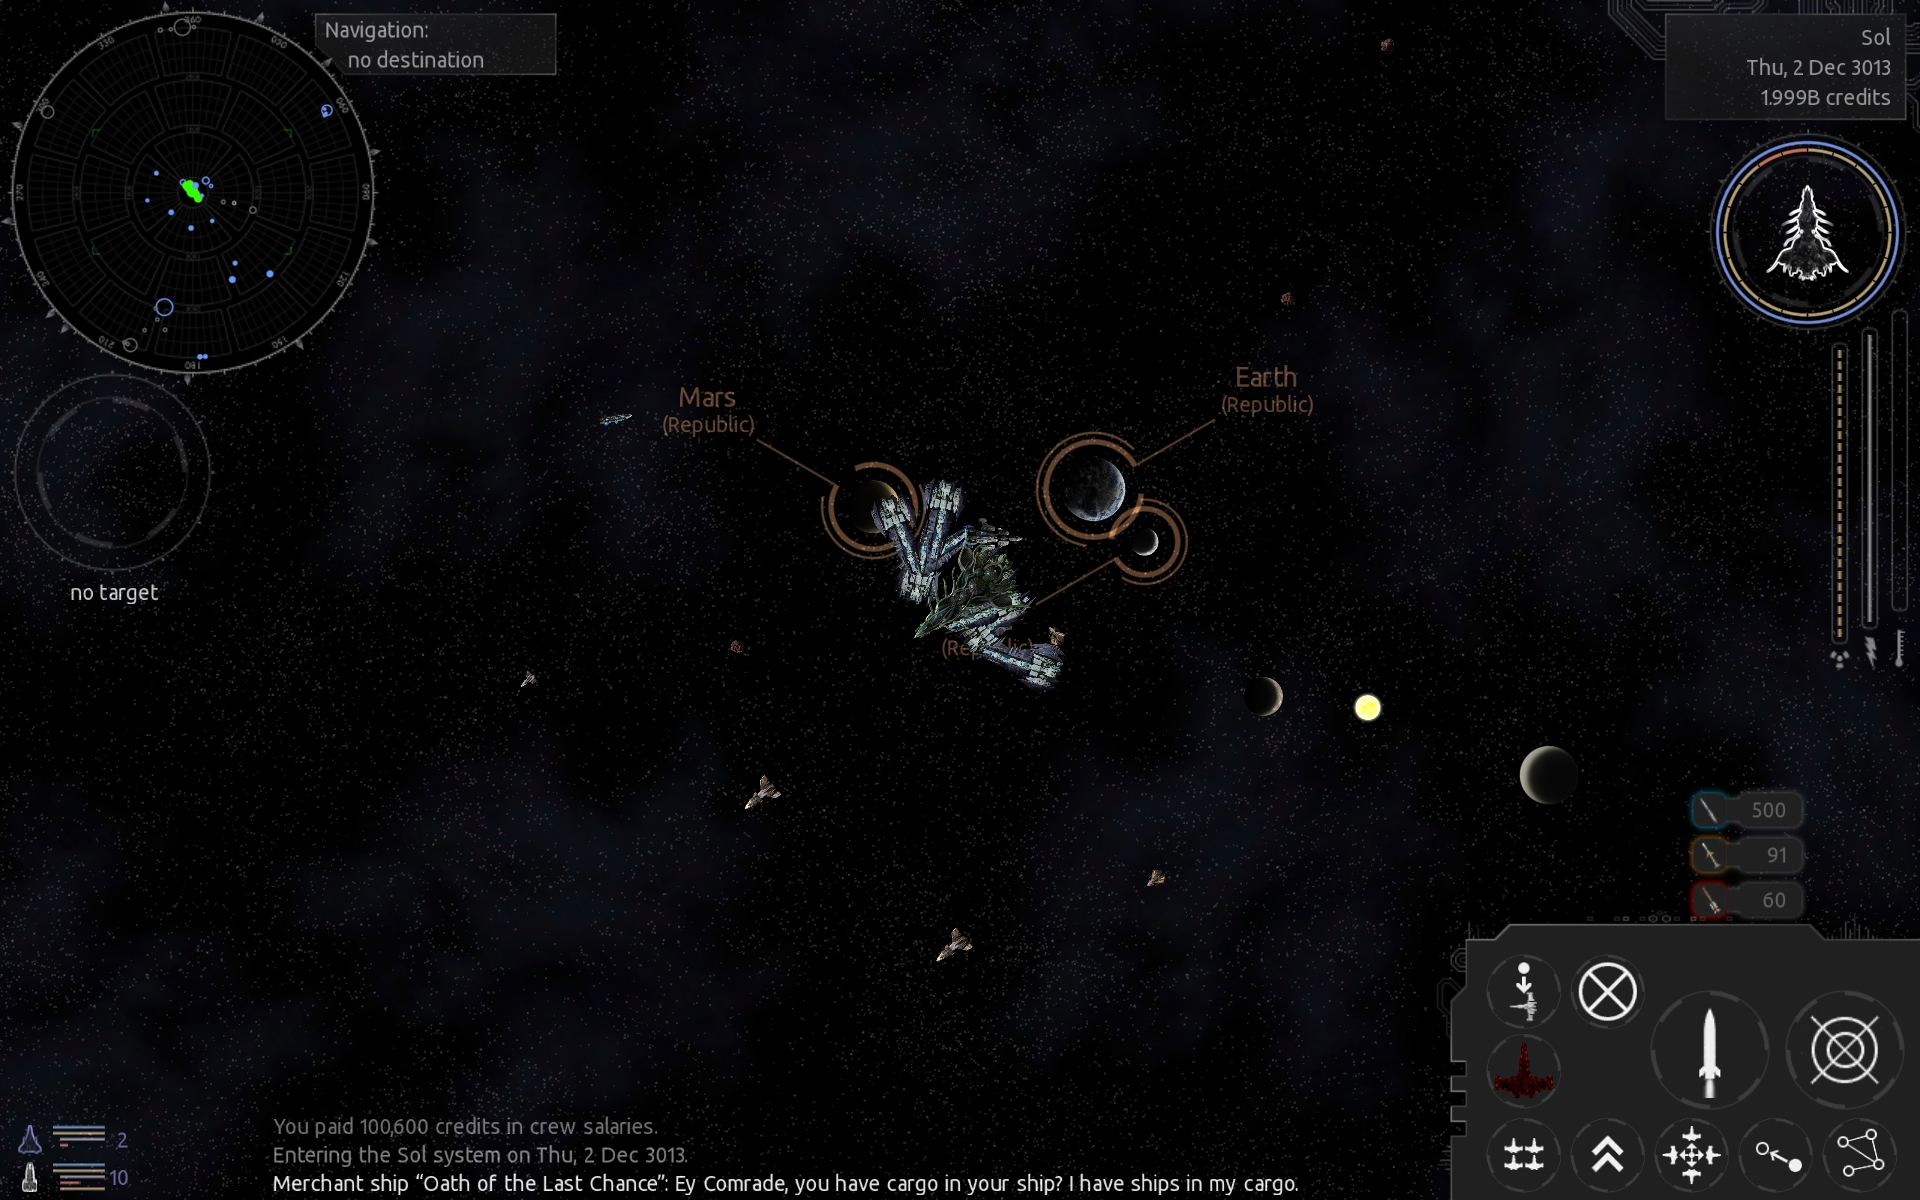
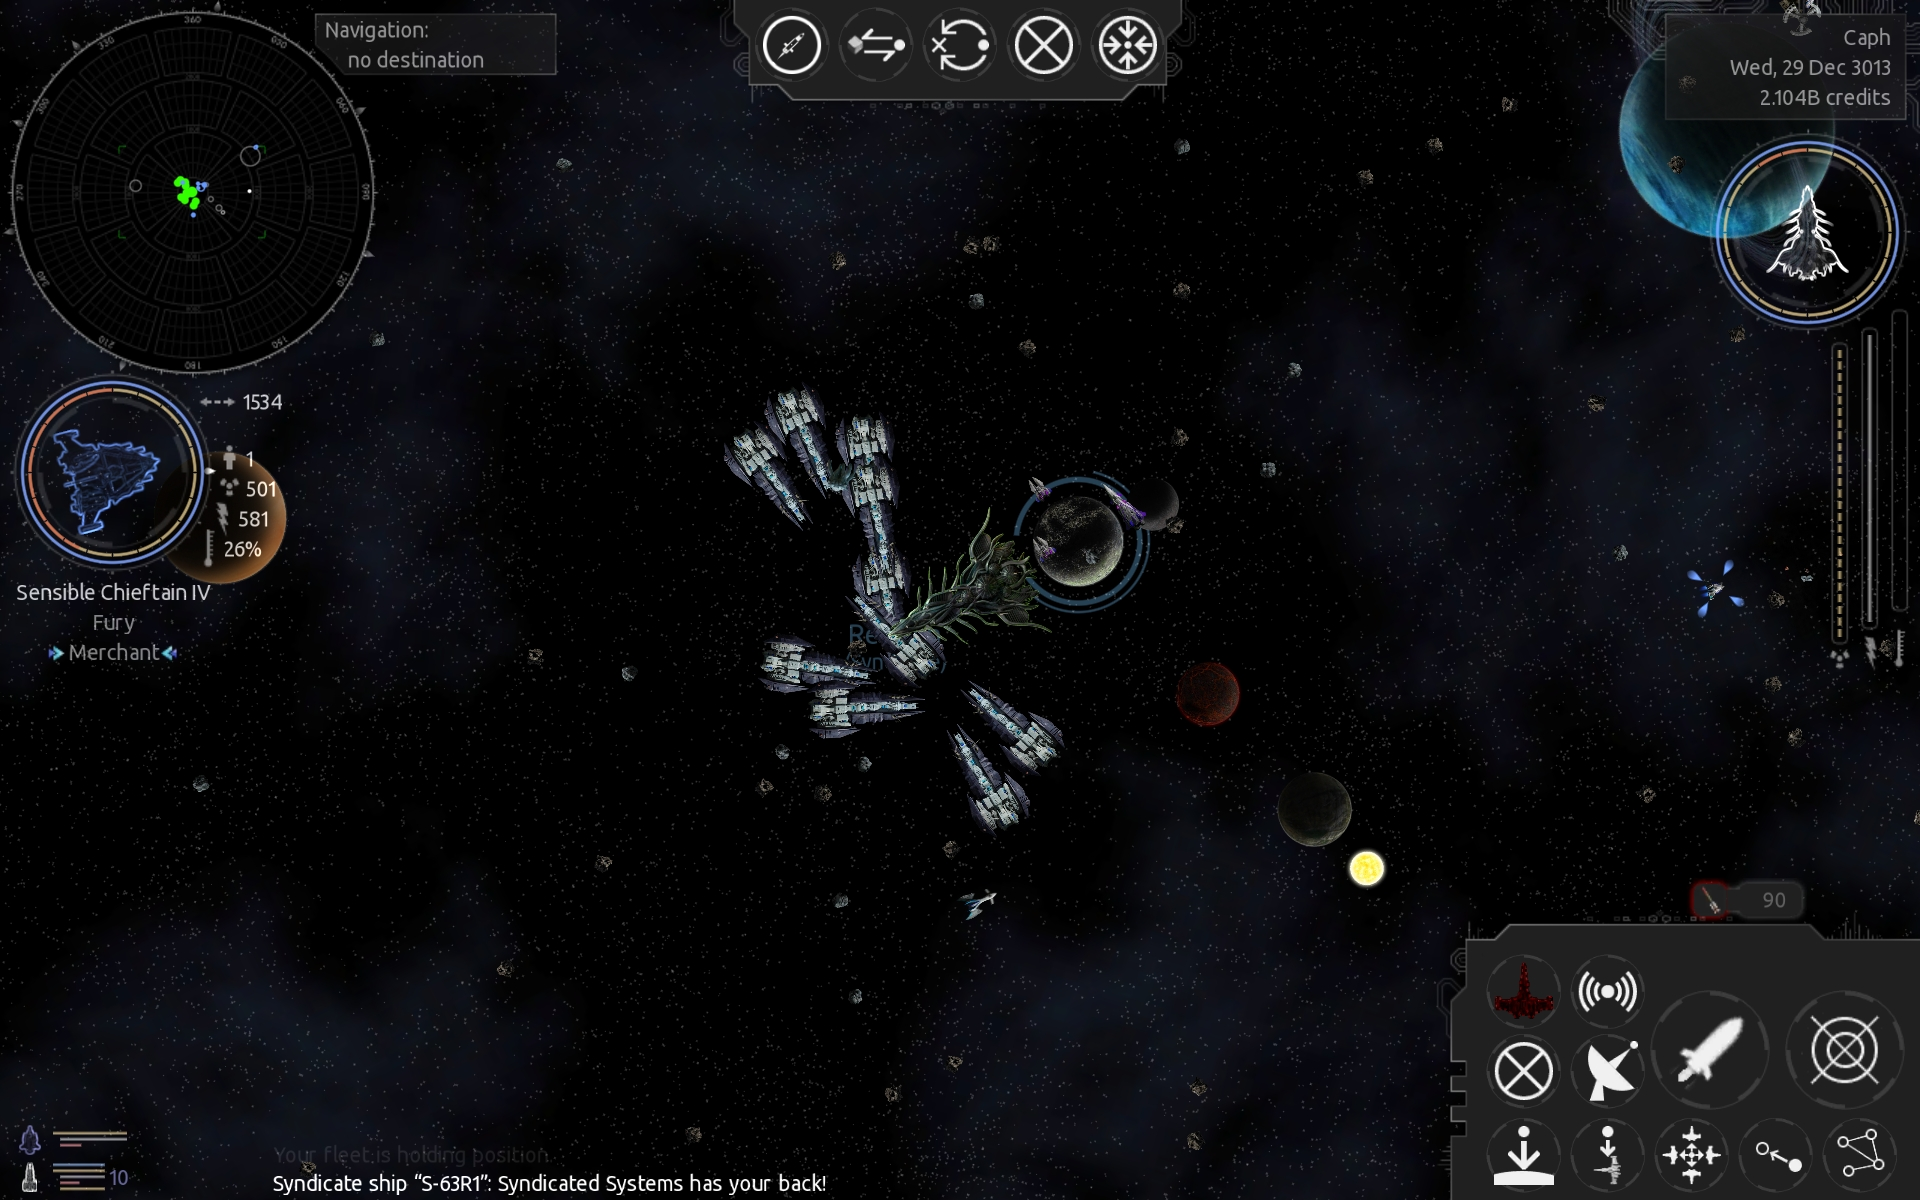
update additional.command.buttons.radial

diff --git a/myplugins/additional.command.buttons.radial/README.md b/myplugins/additional.command.buttons.radial/README.md
@@ -3,12 +3,24 @@
 Reworks the main buttons ui on the lower right side. Made for the mobile version.<br> 
 <br>
 <br>
-This plugin rearranges and resizes some of the buttons, adds two easy accessible buttons and puts an image behind them.<br>
+This plugin<br>
+- rearranges and resizes some of the buttons<br>
+- adds more permanent buttons from the radial menus to make them easy accessible<br>
+- removes the radial menus<br>
+- adds a new panel to the top center for the fleet commands<br>
+- hides unnecessary buttons/panel when they are inactive<br>
+- puts images behind the buttons.<br>
 <img src='https://raw.githubusercontent.com/zuckung/endless-sky-plugins/master/screenshots/additional.command.buttons.radial01.jpg' width='400'>
 <br>
 <br>
 <br>
 Changelog:<br>
+<br>
+2024-08-25<br>
+added a new panel for the fleet commands to the top center<br>
+reworked the toggle ammo button<br>
+removed the expandable radial menus, because all buttons are on the screen now<br>
+exchanged some of the button positions<br>
 <br>
 2024-05-09<br>
 initial release<br>
